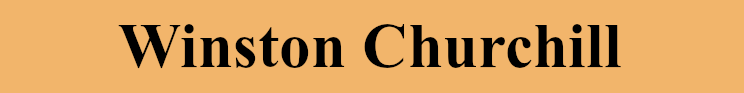
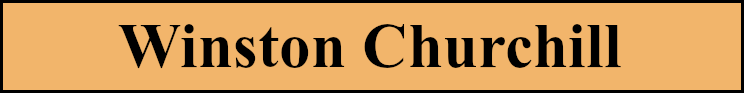
Add black border on the namePictures

Changed region(s): [[0.0, 0.0, 1.0, 1.0]]

diff --git a/OutrasAplicacoes/testRayCaster/js/historicalFigures.js b/OutrasAplicacoes/testRayCaster/js/historicalFigures.js
@@ -2,7 +2,7 @@ function main(language) {
     
     // TODO: Ao clicar, transladar o centro da imagem rotacionada para o local do cursor para facilitar a colagem (deixar por último) --
     // TODO: bloco da imagem na página fica em cor “verde” quando o usuário for movimentar a imagem e estiver na posição correta.
-    // TODO: Adicionar o nome da personalidade histórica embaixo da imagem, quando o a imagem adicionada for correta
+    // TODO: Passar o projeto para o site do vrtools como "Historical Figures"
 
     var scene = new THREE.Scene();
     //var stats = new Stats();
@@ -22,9 +22,8 @@ function main(language) {
     renderer.shadowMap.enabled = true;
     document.getElementById("webgl-output").appendChild(renderer.domElement);
     var rotationCamera = new THREE.PerspectiveCamera(45, window.innerWidth / window.innerHeight, 0.1, 1000); //var camera = initCamera(new THREE.Vector3(0, 10, 20));
-    rotationCamera.position.set(0, 18, 30);
     rotationCamera.up.set(0, 1, 0);
-    //rotationCamera.lookAt(0, 0, 0);
+    rotationCamera.position.set(0, 15, 31);
     var bookCamera = new THREE.PerspectiveCamera(45, window.innerWidth / window.innerHeight, 0.1, 1000); //var camera = initCamera(new THREE.Vector3(0, 10, 20));
     bookCamera.position.set(0, 25, 0);
     bookCamera.up.set(0, 1, 0);
@@ -36,7 +35,7 @@ function main(language) {
     var defaultCamera = rotationCamera;
     // Enable mouse rotation, pan, zoom etc.
     var orbitControls = new THREE.OrbitControls(rotationCamera, renderer.domElement);
-    orbitControls.target.set(0, 13, 13);
+    orbitControls.target.set(0, 8, 0);
     orbitControls.minDistance = 10;
     orbitControls.maxDistance = 60;
 
